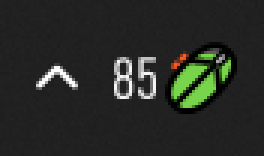
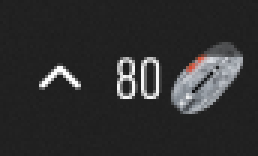
README: realistic colourways, level displays and charging pictures

Changed region(s): [[0.4031, 0.2564, 0.9612, 0.7436], [0.124, 0.3846, 0.3411, 0.5897]]

diff --git a/README.md b/README.md
@@ -6,9 +6,19 @@ Shows the battery level of a Lofree Hypace mouse right in the Windows taskbar: t
 
 ![In the taskbar: the battery percentage and the mouse, right of ^](docs/images/taskbar.png)
 
-The screenshots show the **Drawn** mouse style; by default the mouse is a photo of the Hypace in Ghost (see **Mouse style** under Features). All states (top row: dark taskbar, bottom row: light taskbar): full, 62%, 35%, 12% (number turns red), charging (blue), asleep (grey, showing the last level read), no reading yet (`--`).
+By default the mouse is a photo of the Hypace in Ghost, whose drained part turns see-through. All three colourways in every state (top three rows: dark taskbar, bottom three: light taskbar): full, 62%, 35%, 12% (number turns red), charging (with the bolt), asleep (no colour, showing the last level read), no reading yet (`--`).
 
-![All states](docs/images/states.png)
+![Realistic style: Crayon Grey, Jet Black and Ghost in every state](docs/images/realistic.png)
+
+The three ways the realistic mouse can show the level (picked under **Mouse style → Realistic**), at 62% and while charging:
+
+![The three level displays for each colourway](docs/images/displays-en.png)
+
+The **Drawn** style in the same states (top row: dark taskbar, bottom row: light taskbar); it turns blue while charging:
+
+![Drawn style in every state](docs/images/drawn.png)
+
+The mouse photos are © Lofree; the pictures above are the program's own 20-pixel renders of them, enlarged 3x.
 
 > Unofficial tool, not affiliated with Lofree. It only reads the battery level and never changes any mouse settings.
 
@@ -42,8 +52,8 @@ The menus, hover tips and notifications come in English (the default) and Chines
     - **Drained part turns grey-white**: the charged part keeps the mouse's own colour, the part above it turns a pale grey-white.
     - **Drained part turns see-through** (the default): the charged part keeps the mouse's own colour, the part above it turns faint, so the taskbar shows through it.
     - **Charged part in level colours**: the charged part takes the drawn style's level colours (below) with the photo's light and shade, the orange side buttons keep their colour, and the part above turns grey-white.
-  - **Drawn**: a line drawing seen from above (wheel, Λ-shaped button seams, centre line, orange side buttons on the left), as in the screenshots. The charge's colour follows the level: 100% green → 70% yellow-green → 45% yellow → 25% orange → 10% and below red, blending smoothly in between, and turns blue while charging. The drained part is a translucent shell, so the whole mouse is always visible. The outline, centre line, seams and wheel well are 2 px black lines (black lines on colour look thinner than white lines, so they are a little wider than the taskbar's 1.5 px white strokes to look equally heavy).
-  - The realistic style needs one product photo per colourway. It is downloaded from lofree.co the first time that colourway is shown (for the default Ghost, at the first start) and kept on this computer (in `%APPDATA%\HypaceTray\photos`), so it is not downloaded again. Until the photo is there the drawn mouse is shown; the menu shows "(downloading…)" next to the colourway, or "(download failed, will retry)" if it could not be fetched, and it tries again a minute later. The photos are © Lofree and are not part of this repository. Pick **Drawn** if the program should never go online.
+  - **Drawn**: a line drawing seen from above (wheel, Λ-shaped button seams, centre line, orange side buttons on the left), as in the last picture above. The charge's colour follows the level: 100% green → 70% yellow-green → 45% yellow → 25% orange → 10% and below red, blending smoothly in between, and turns blue while charging. The drained part is a translucent shell, so the whole mouse is always visible. The outline, centre line, seams and wheel well are 2 px black lines (black lines on colour look thinner than white lines, so they are a little wider than the taskbar's 1.5 px white strokes to look equally heavy).
+  - The realistic style needs one product photo per colourway. It is downloaded from lofree.co the first time that colourway is shown (for the default Ghost, at the first start) and kept on this computer (in `%APPDATA%\HypaceTray\photos`), so it is not downloaded again. Until the photo is there the drawn mouse is shown; the menu shows "(downloading…)" next to the colourway, or "(download failed, will retry)" if it could not be fetched, and it tries again a minute later. The photos are © Lofree and are not part of this repository; only the small renders pictured above are. Pick **Drawn** if the program should never go online.
 - Follows the taskbar's dark or light theme.
 - Left click: refresh now. Right-click menu: **Refresh now** / **Start with Windows** / **Open the official web driver** / **Mouse style** / **Language** (English or 中文) / **Exit**.
 - Reads the battery every 60 seconds while the mouse is online, and checks every 20 seconds whether it has come online.

diff --git a/README.zh-CN.md b/README.zh-CN.md
@@ -6,9 +6,19 @@
 
 ![任务栏效果：^ 右边的电量数字和鼠标](docs/images/taskbar.png)
 
-截图里是"线条"鼠标样式；默认的鼠标是 Hypace Ghost 配色的产品照片（见下面"功能"里的"鼠标样式"）。各种状态（上排深色任务栏，下排浅色任务栏）：满电、62%、35%、12%（数字变红）、充电中（蓝色）、休眠（变灰，显示上次读到的电量）、还没读到电量（`--`）。
+默认的鼠标是 Hypace Ghost 配色的产品照片，没电部分变透明。三种配色的各种状态（上面三排深色任务栏，下面三排浅色任务栏）：满电、62%、35%、12%（数字变红）、充电中（带闪电）、休眠（没有颜色，显示上次读到的电量）、还没读到电量（`--`）。
 
-![各种状态](docs/images/states.png)
+![仿真样式：Crayon Grey、Jet Black、Ghost 的各种状态](docs/images/realistic.png)
+
+仿真鼠标显示电量的三种方式（在"鼠标样式 → 仿真"里选），62% 和充电中：
+
+![每种配色的三种电量显示方式](docs/images/displays-zh.png)
+
+"线条"样式的同样这些状态（上排深色任务栏，下排浅色任务栏），充电时变蓝：
+
+![线条样式的各种状态](docs/images/drawn.png)
+
+鼠标照片版权归洛斐（Lofree）所有；上面这些图是程序自己画出的 20 像素图标，放大了 3 倍。
 
 > 非官方工具，和洛斐（Lofree）没有关系。程序只查询电量，不会写入任何鼠标设置。
 
@@ -42,8 +52,8 @@
     - "没电部分变灰白"：有电的部分保持鼠标本来的颜色，上面没电的部分变成浅灰白。
     - "没电部分变透明"（默认）：有电的部分保持鼠标本来的颜色，上面没电的部分变淡，能透出任务栏。
     - "电量部分用电量颜色"：有电的部分换成线条样式的电量颜色（见下），保留照片的明暗，橙色侧键保持原色；上面没电的部分变成灰白。
-  - "线条"：从上方看的线条鼠标（滚轮、倒 V 按键分缝、中缝、左侧橙色侧键），就是截图里的样子。电量的颜色随电量变化：100% 绿 → 70% 黄绿 → 45% 黄 → 25% 橙 → 10% 以下红，中间平滑过渡，充电时变蓝。没电的部分是半透明的底壳，整只鼠标始终看得见；鼠标的外圈、中缝、分缝和滚轮槽用 2 像素黑线画（黑线在彩色上看起来比白线细，所以比任务栏 1.5 像素的白线宽一点，视觉上一样粗）。
-  - 仿真样式每种配色需要一张产品照片：第一次显示这种配色时（默认的 Ghost 就是第一次启动时）从 lofree.co 下载，保存在本机（`%APPDATA%\HypaceTray\photos`），以后不再下载。照片下载好之前先显示线条鼠标；菜单里这个配色后面会显示"（下载中…）"，下载不了时显示"（下载失败，稍后重试）"，一分钟后再试。照片版权归洛斐（Lofree）所有，不包含在本仓库里。如果不希望程序联网，选"线条"即可。
+  - "线条"：从上方看的线条鼠标（滚轮、倒 V 按键分缝、中缝、左侧橙色侧键），就是上面最后一张图里的样子。电量的颜色随电量变化：100% 绿 → 70% 黄绿 → 45% 黄 → 25% 橙 → 10% 以下红，中间平滑过渡，充电时变蓝。没电的部分是半透明的底壳，整只鼠标始终看得见；鼠标的外圈、中缝、分缝和滚轮槽用 2 像素黑线画（黑线在彩色上看起来比白线细，所以比任务栏 1.5 像素的白线宽一点，视觉上一样粗）。
+  - 仿真样式每种配色需要一张产品照片：第一次显示这种配色时（默认的 Ghost 就是第一次启动时）从 lofree.co 下载，保存在本机（`%APPDATA%\HypaceTray\photos`），以后不再下载。照片下载好之前先显示线条鼠标；菜单里这个配色后面会显示"（下载中…）"，下载不了时显示"（下载失败，稍后重试）"，一分钟后再试。照片版权归洛斐（Lofree）所有，不包含在本仓库里，仓库里只有上面那些小图标渲染图。如果不希望程序联网，选"线条"即可。
 - 跟随任务栏的深色/浅色主题。
 - 左键单击：立即刷新。右键菜单：立即刷新 / 开机自启动 / 打开官方网页驱动 / 鼠标样式 / 语言（English 或 中文）/ 退出。
 - 鼠标在线时每 60 秒读一次电量，离线时每 20 秒检查一次是否上线。
